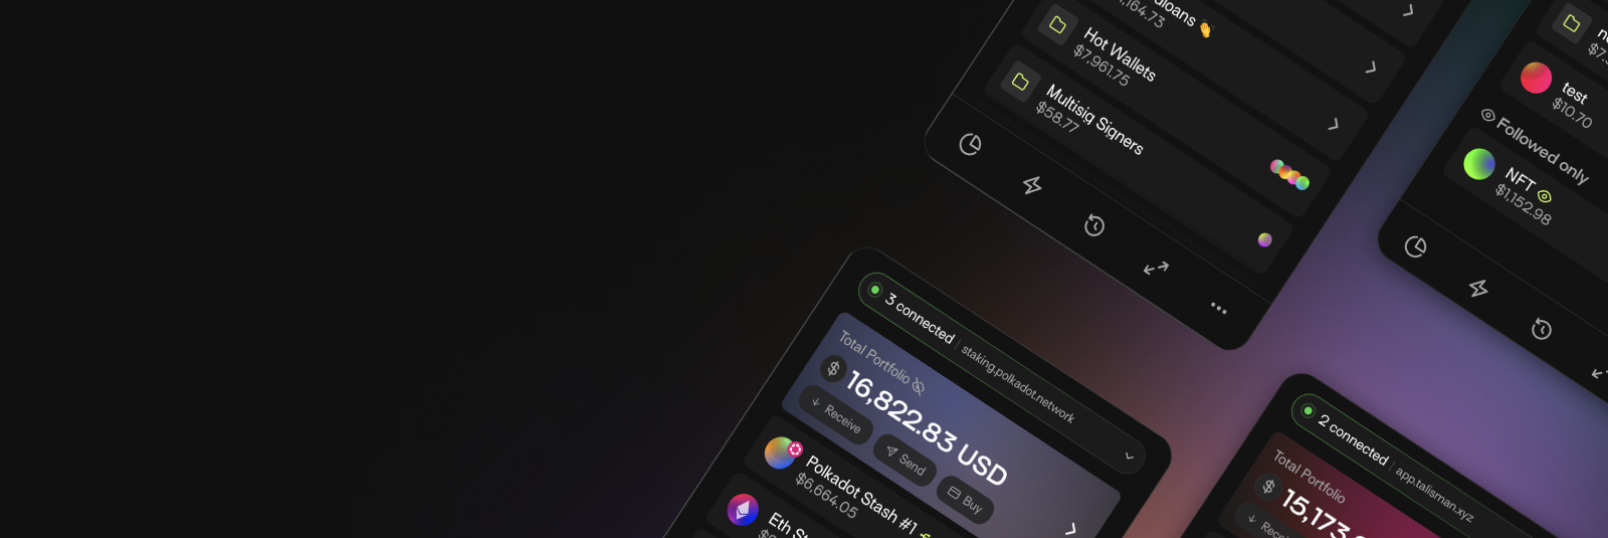
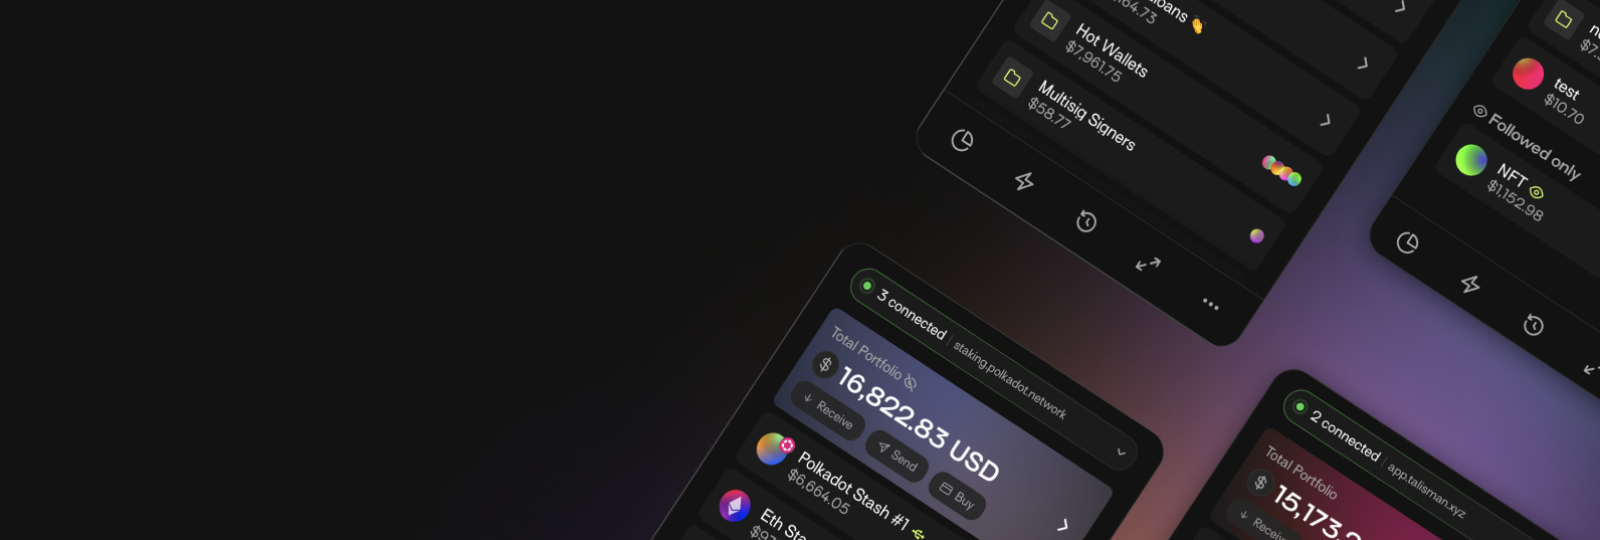
fix: whats new hero images

diff --git a/apps/extension/src/ui/apps/popup/pages/Portfolio/PortfolioWhatsNew.tsx b/apps/extension/src/ui/apps/popup/pages/Portfolio/PortfolioWhatsNew.tsx
@@ -52,7 +52,7 @@ export const PortfolioWhatsNewSection = ({
   return (
     <div>
       <div className="text-body-secondary flex flex-col gap-12 pb-12 text-sm">
-        <div className="relative">
+        <div className="relative h-[119px]">
           <img
             className="pointer-events-none relative w-full rounded-sm"
             src={heroUrl}
